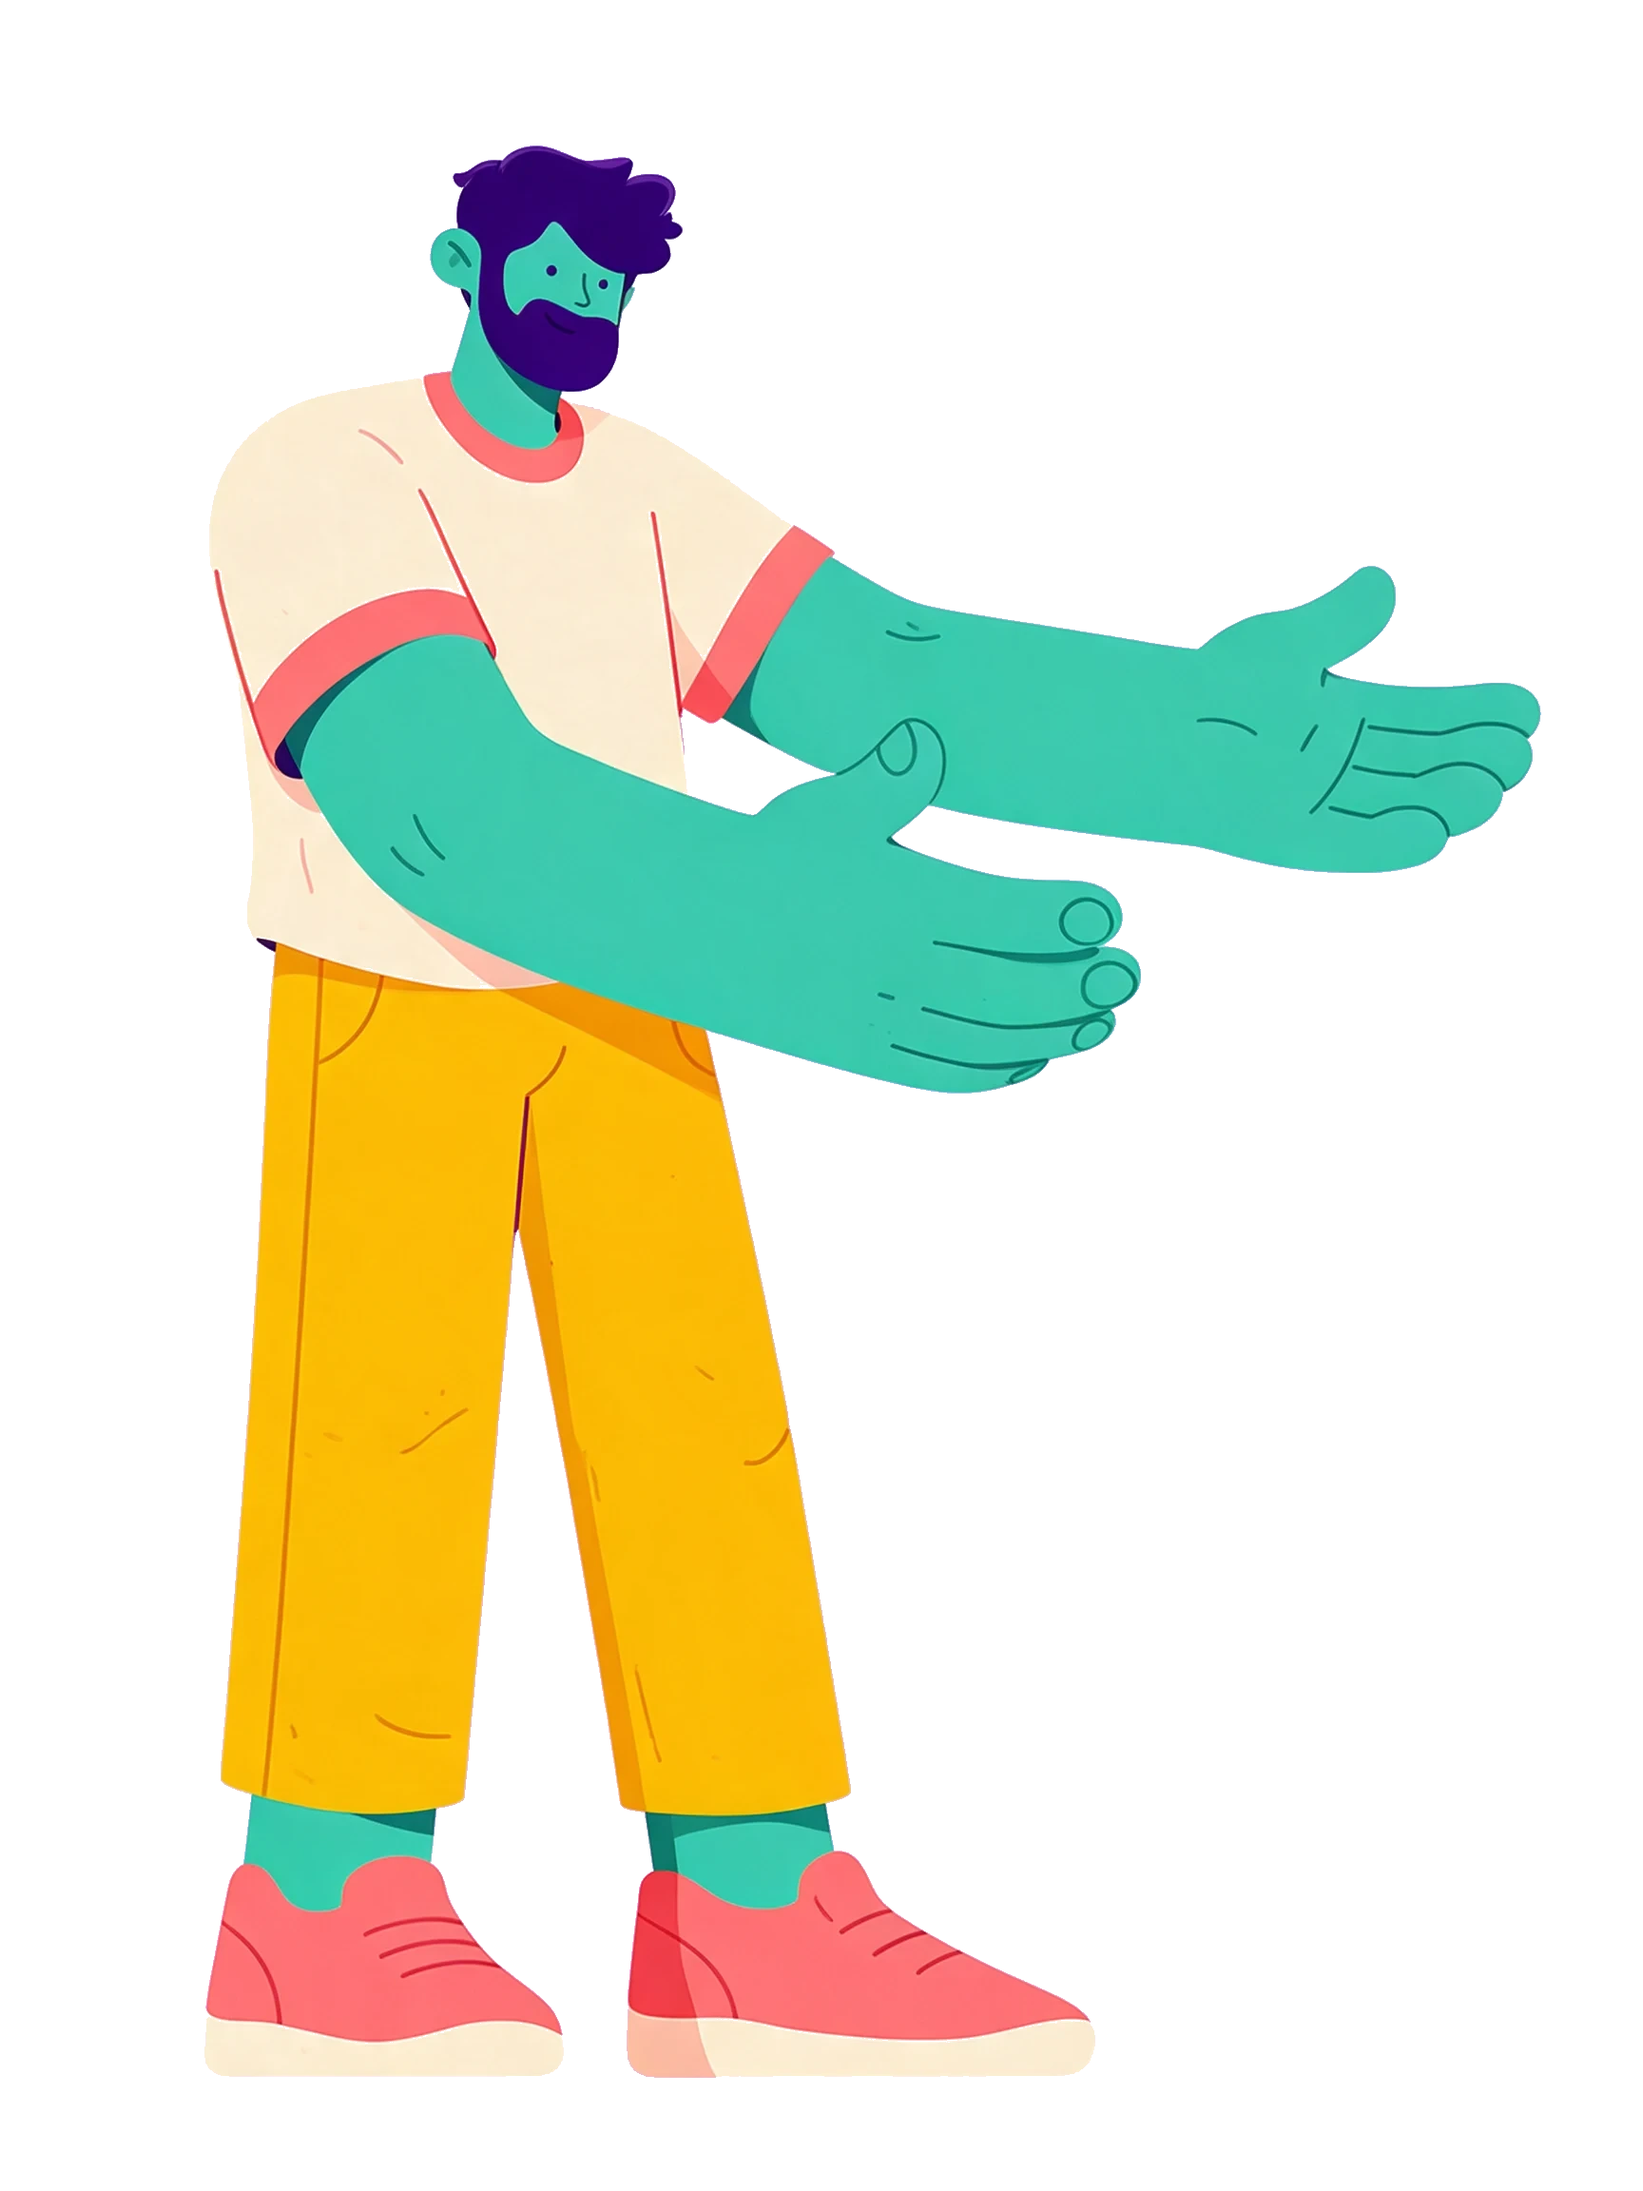
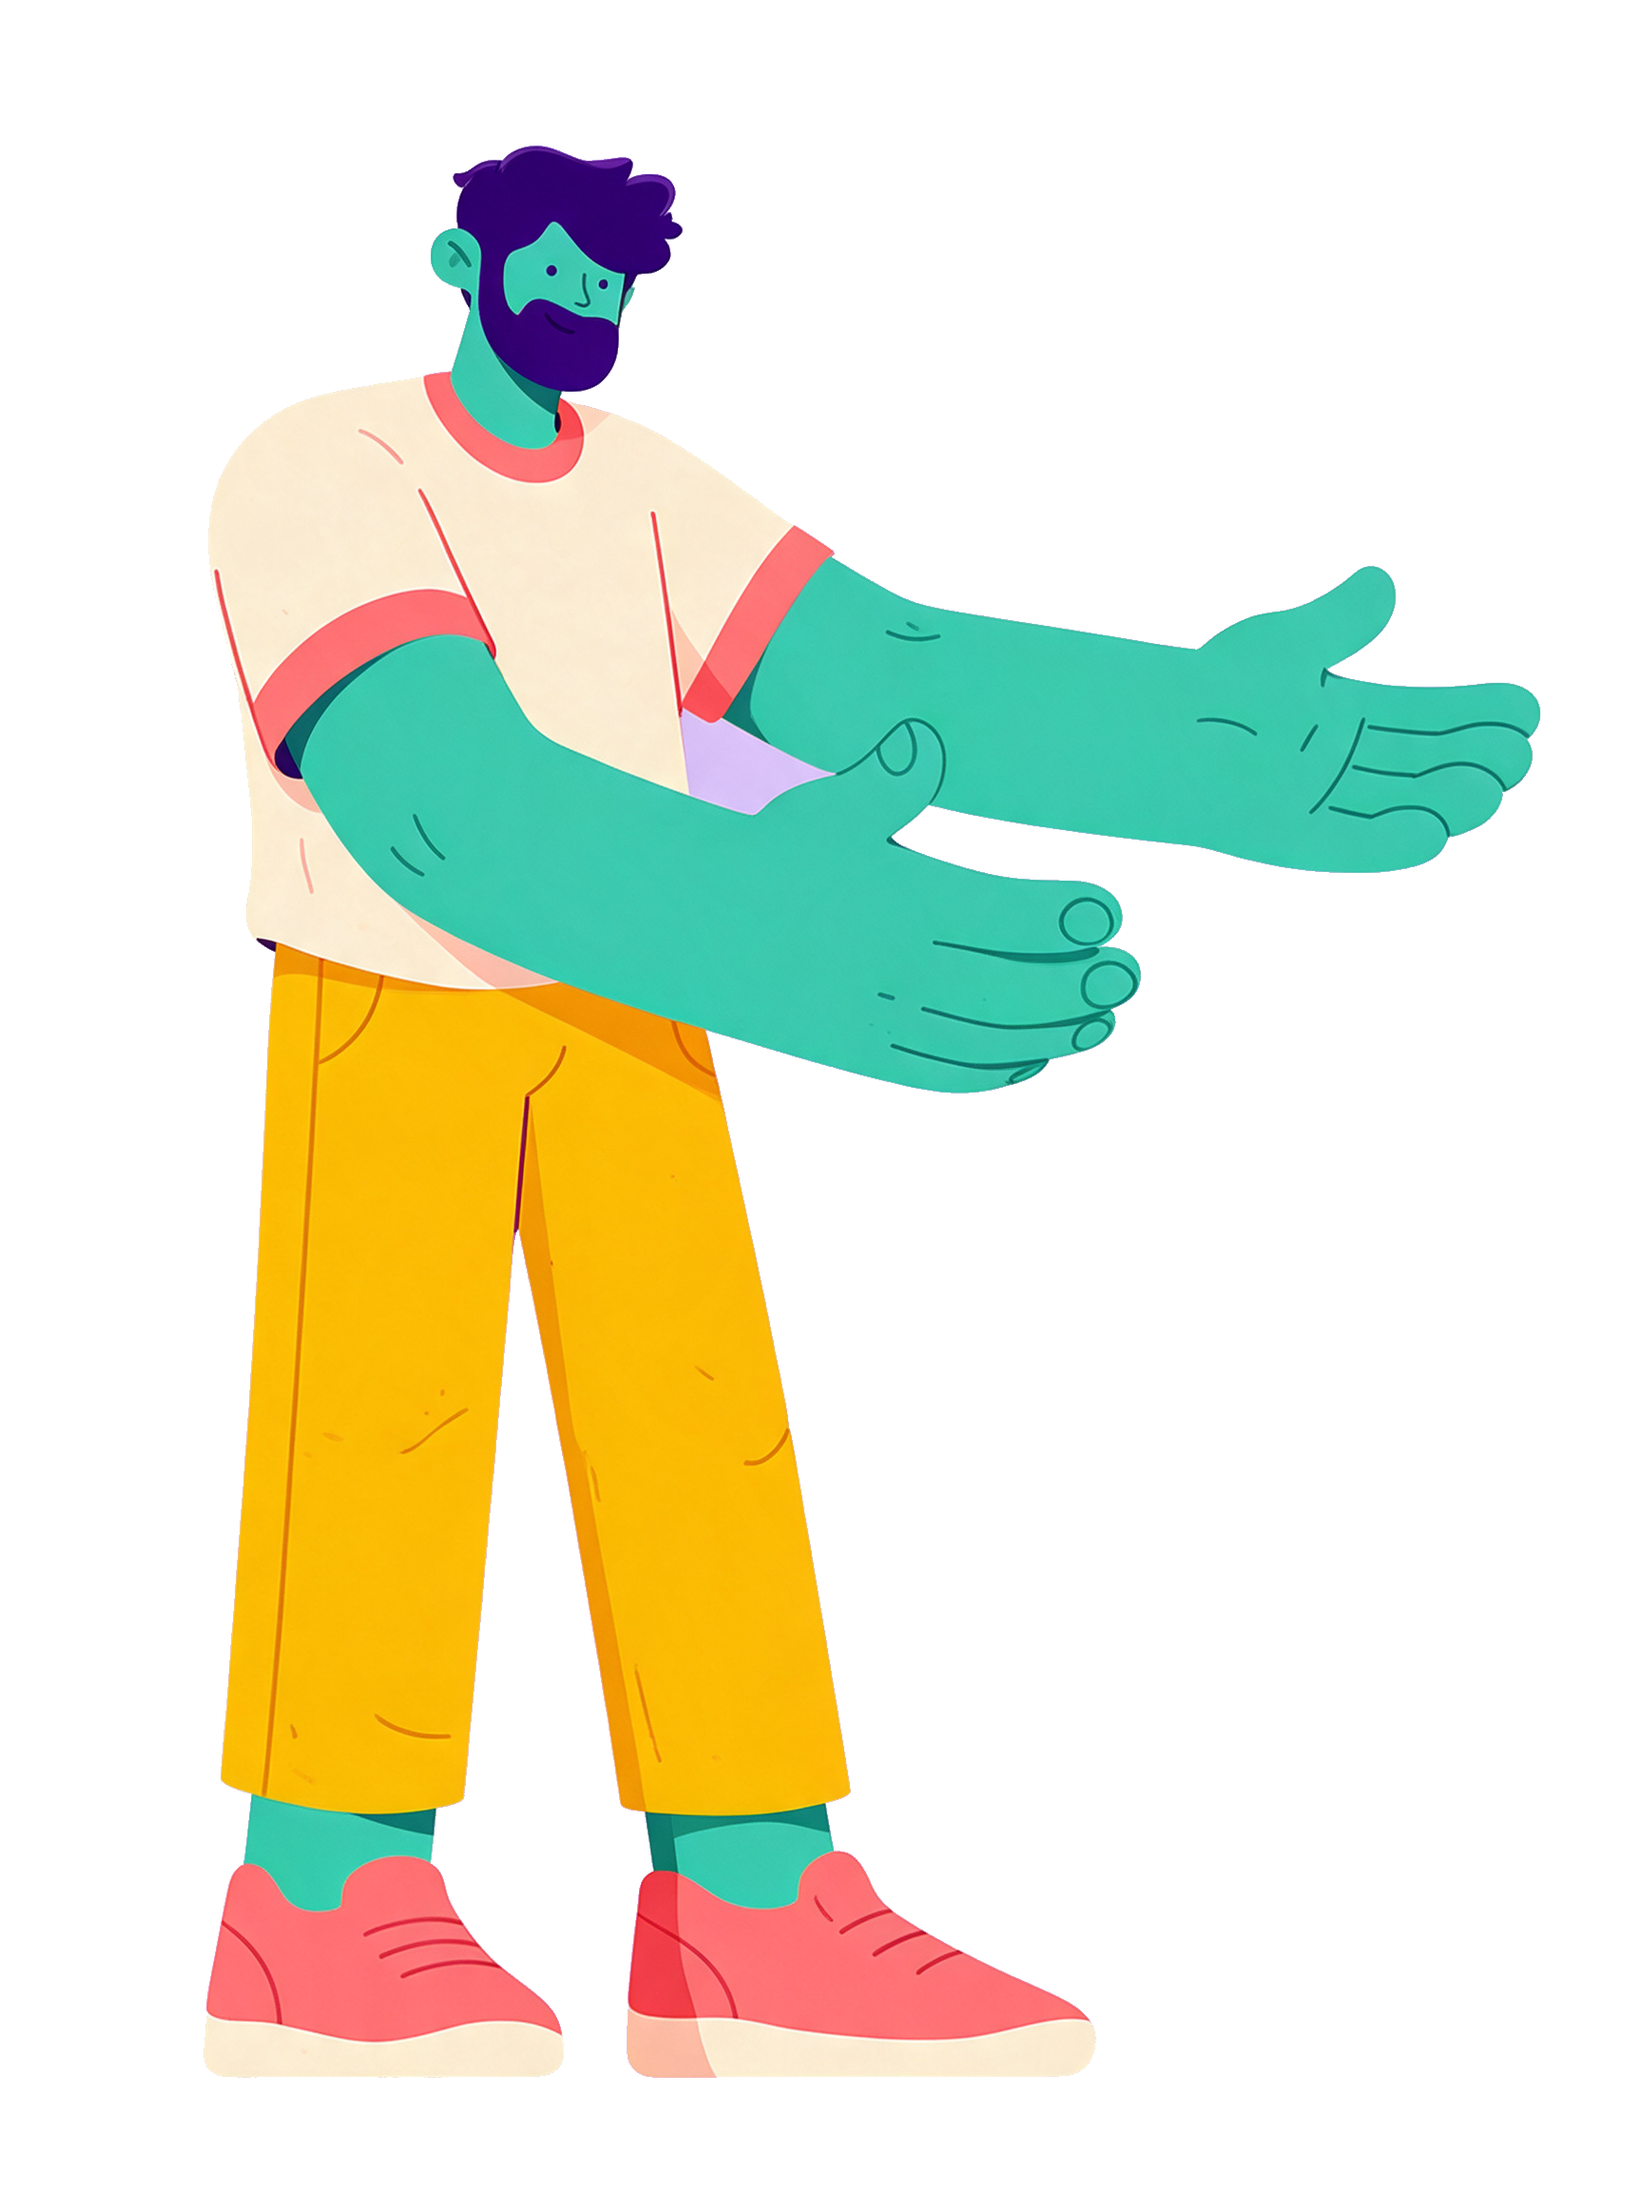
fix(blog): eShow staging — post local en rama staging, assets y UI forzados
- isStagingLocalBlogEnabled: rama staging gana aunque VERCEL_ENV=production (causa Stefanni/WP)
- Regenera cabecera, fig1 y fig2 desde fuentes con flood-fill + WebP lossless alpha
- Byline/excerpt/avatar del hero forzados por slug; hero Image unoptimized
- Fig2 = fan portátil + laptop (06-fig2)

Changed region(s): [[0.4062, 0.3125, 0.5, 0.375], [0.3125, 0.5312, 0.3438, 0.5625]]

diff --git a/app/blog/[...slug]/page.tsx b/app/blog/[...slug]/page.tsx
@@ -38,6 +38,7 @@ import {
   buildBlogBreadcrumbJsonLd,
   formatCombinedByline,
   formatUpdatedByline,
+  EDITORIAL_AVATAR_SRC,
   resolveBlogAuthorHref,
   resolveBlogEditorialUpdate,
   serializeJsonLd,
@@ -57,6 +58,7 @@ import EshowListaForm from '@/components/blog/EshowListaForm';
 import {
   ESHOW_LISTA_FORM_MARKER,
   ESHOW_MADRID_2026_DATE_PUBLISHED_PROVISIONAL,
+  ESHOW_MADRID_2026_EXCERPT,
   ESHOW_MADRID_2026_H1,
   ESHOW_MADRID_2026_META,
   ESHOW_MADRID_2026_AUTHOR_NAME,
@@ -236,16 +238,21 @@ export default async function BlogPostPage({ params }: BlogPostPageProps) {
     url: postCanonical,
     slug: postSlug,
   });
-  const excerptText = formatBlogHeroExcerpt(post.excerpt?.rendered);
-  const bylineName =
-    post.author && typeof post.author === 'object'
+  const excerptText = isEshow
+    ? formatBlogHeroExcerpt(`<p>${ESHOW_MADRID_2026_EXCERPT}</p>`)
+    : formatBlogHeroExcerpt(post.excerpt?.rendered);
+  const bylineName = isEshow
+    ? ESHOW_MADRID_2026_AUTHOR_NAME
+    : post.author && typeof post.author === 'object'
       ? editorial
         ? formatCombinedByline(post.author.name, editorial.updatedBy)
         : post.author.name
       : authorName;
-  const authorHref = resolveBlogAuthorHref(
-    post.author && typeof post.author === 'object' ? post.author.url : undefined,
-  );
+  const authorHref = isEshow
+    ? undefined
+    : resolveBlogAuthorHref(
+        post.author && typeof post.author === 'object' ? post.author.url : undefined,
+      );
   const updatedByline = isEshow
     ? formatEshowActualizadoLine()
     : formatUpdatedByline(
@@ -318,11 +325,13 @@ export default async function BlogPostPage({ params }: BlogPostPageProps) {
                   href={authorHref}
                   updatedLabel={updatedByline}
                   avatarPriority
-                  avatarSrc={authorAvatar}
+                  avatarSrc={isEshow ? EDITORIAL_AVATAR_SRC : authorAvatar}
                   avatarAlt={
-                    post.author && typeof post.author === 'object'
-                      ? post.author.name
-                      : authorName
+                    isEshow
+                      ? ESHOW_MADRID_2026_AUTHOR_NAME
+                      : post.author && typeof post.author === 'object'
+                        ? post.author.name
+                        : authorName
                   }
                 />
               </div>
@@ -352,6 +361,7 @@ export default async function BlogPostPage({ params }: BlogPostPageProps) {
                     className="max-h-[88%] max-w-full h-auto w-auto object-contain object-center"
                     sizes={BLOG_POST_FEATURED_SIZES}
                     priority
+                    unoptimized
                   />
                 ) : (
                   <Image

diff --git a/lib/eshow-madrid-2026.ts b/lib/eshow-madrid-2026.ts
@@ -51,7 +51,7 @@ export const ESHOW_MADRID_2026_CABECERA_ALT =
 export const ESHOW_MADRID_2026_FIG1_ALT =
   'Ilustración de un asistente del eShow con barba cargando un paquete, sobre fondo lavanda';
 export const ESHOW_MADRID_2026_PROGRAMA_ALT =
-  'Ilustración de un asistente del eShow con un ventilador portátil, sobre fondo lavanda';
+  'Ilustración de un asistente del eShow con un ventilador portátil y un portátil, sobre fondo lavanda';
 
 /** Autor visible en staging (post local; no viene de WP en este slug). */
 /** Visible byline / pill (post local; no autor WP en este slug). */

diff --git a/lib/blog-local-posts.ts b/lib/blog-local-posts.ts
@@ -197,8 +197,11 @@ export type StagingLocalBlogEnv = Record<string, string | undefined>;
 export function isStagingLocalBlogEnabled(
   env: StagingLocalBlogEnv = process.env,
 ): boolean {
+  const ref = (env.VERCEL_GIT_COMMIT_REF || env.VERCEL_BRANCH || '').trim();
+  // Staging branch can deploy with VERCEL_ENV=production; local posts must still win.
+  if (ref === 'staging') return true;
   if (env.VERCEL_ENV === 'production') return false;
-  if (env.VERCEL_GIT_COMMIT_REF === 'main') return false;
+  if (ref === 'main') return false;
   return true;
 }
 

diff --git a/scripts/eshow-export-vertical-assets.py b/scripts/eshow-export-vertical-assets.py
@@ -1,0 +1,100 @@
+#!/usr/bin/env python3
+"""Export eShow vertical WebPs from design sources with flood-filled lavender backgrounds."""
+from __future__ import annotations
+
+import math
+from collections import deque
+from pathlib import Path
+
+from PIL import Image
+
+BOX_RGB = (234, 217, 255)
+TOLERANCE = 36
+UPLOADS = Path('/home/ubuntu/.cursor/projects/workspace/uploads')
+OUT = Path(__file__).resolve().parents[1] / 'public' / 'images' / 'blog'
+
+EXPORTS = {
+    'eshow-madrid-2026-cabecera.webp': UPLOADS / '01-cabecera-fan-presentando-w4MaKJT7EI_e4d2.png',
+    'eshow-madrid-2026-fig1.webp': UPLOADS / '04-fig1-fan-paquete-WDFgNBncXe_ab04.jpg',
+    'eshow-madrid-2026-programa.webp': UPLOADS / '06-fig2-fan-portatil-w4MaK9e7EI_9b18.jpg',
+}
+
+
+def dist(a: tuple[int, int, int], b: tuple[int, int, int]) -> float:
+    return math.sqrt(sum((x - y) ** 2 for x, y in zip(a, b)))
+
+
+def corner_bg_rgb(im: Image.Image) -> tuple[int, int, int]:
+    w, h = im.size
+    pts = [(0, 0), (w - 1, 0), (0, h - 1), (w - 1, h - 1)]
+    rs, gs, bs = [], [], []
+    for x, y in pts:
+        r, g, b = im.convert('RGB').getpixel((x, y))
+        rs.append(r)
+        gs.append(g)
+        bs.append(b)
+    return (sum(rs) // 4, sum(gs) // 4, sum(bs) // 4)
+
+
+def is_background(rgb: tuple[int, int, int], bg: tuple[int, int, int]) -> bool:
+    return dist(rgb, bg) <= TOLERANCE or dist(rgb, BOX_RGB) <= TOLERANCE
+
+
+def flood_transparent(im: Image.Image) -> Image.Image:
+    rgb_im = im.convert('RGB')
+    bg = corner_bg_rgb(rgb_im)
+    w, h = rgb_im.size
+    rgba = im.convert('RGBA')
+    px = rgba.load()
+    visited = bytearray(w * h)
+    q: deque[tuple[int, int]] = deque()
+
+    def push(x: int, y: int) -> None:
+        idx = y * w + x
+        if visited[idx]:
+            return
+        if not is_background(rgb_im.getpixel((x, y)), bg):
+            return
+        visited[idx] = 1
+        q.append((x, y))
+
+    for x in range(w):
+        push(x, 0)
+        push(x, h - 1)
+    for y in range(h):
+        push(0, y)
+        push(w - 1, y)
+
+    while q:
+        x, y = q.popleft()
+        r, g, b, _a = px[x, y]
+        px[x, y] = (r, g, b, 0)
+        if x > 0:
+            push(x - 1, y)
+        if x + 1 < w:
+            push(x + 1, y)
+        if y > 0:
+            push(x, y - 1)
+        if y + 1 < h:
+            push(x, y + 1)
+
+    return rgba
+
+
+def export_pair(name: str, src: Path) -> None:
+    if not src.exists():
+        raise FileNotFoundError(src)
+    out = OUT / name
+    keyed = flood_transparent(Image.open(src))
+    out.parent.mkdir(parents=True, exist_ok=True)
+    keyed.save(out, 'WEBP', lossless=True, method=6)
+    print(f'wrote {out} from {src.name}')
+
+
+def main() -> None:
+    for name, src in EXPORTS.items():
+        export_pair(name, src)
+
+
+if __name__ == '__main__':
+    main()
